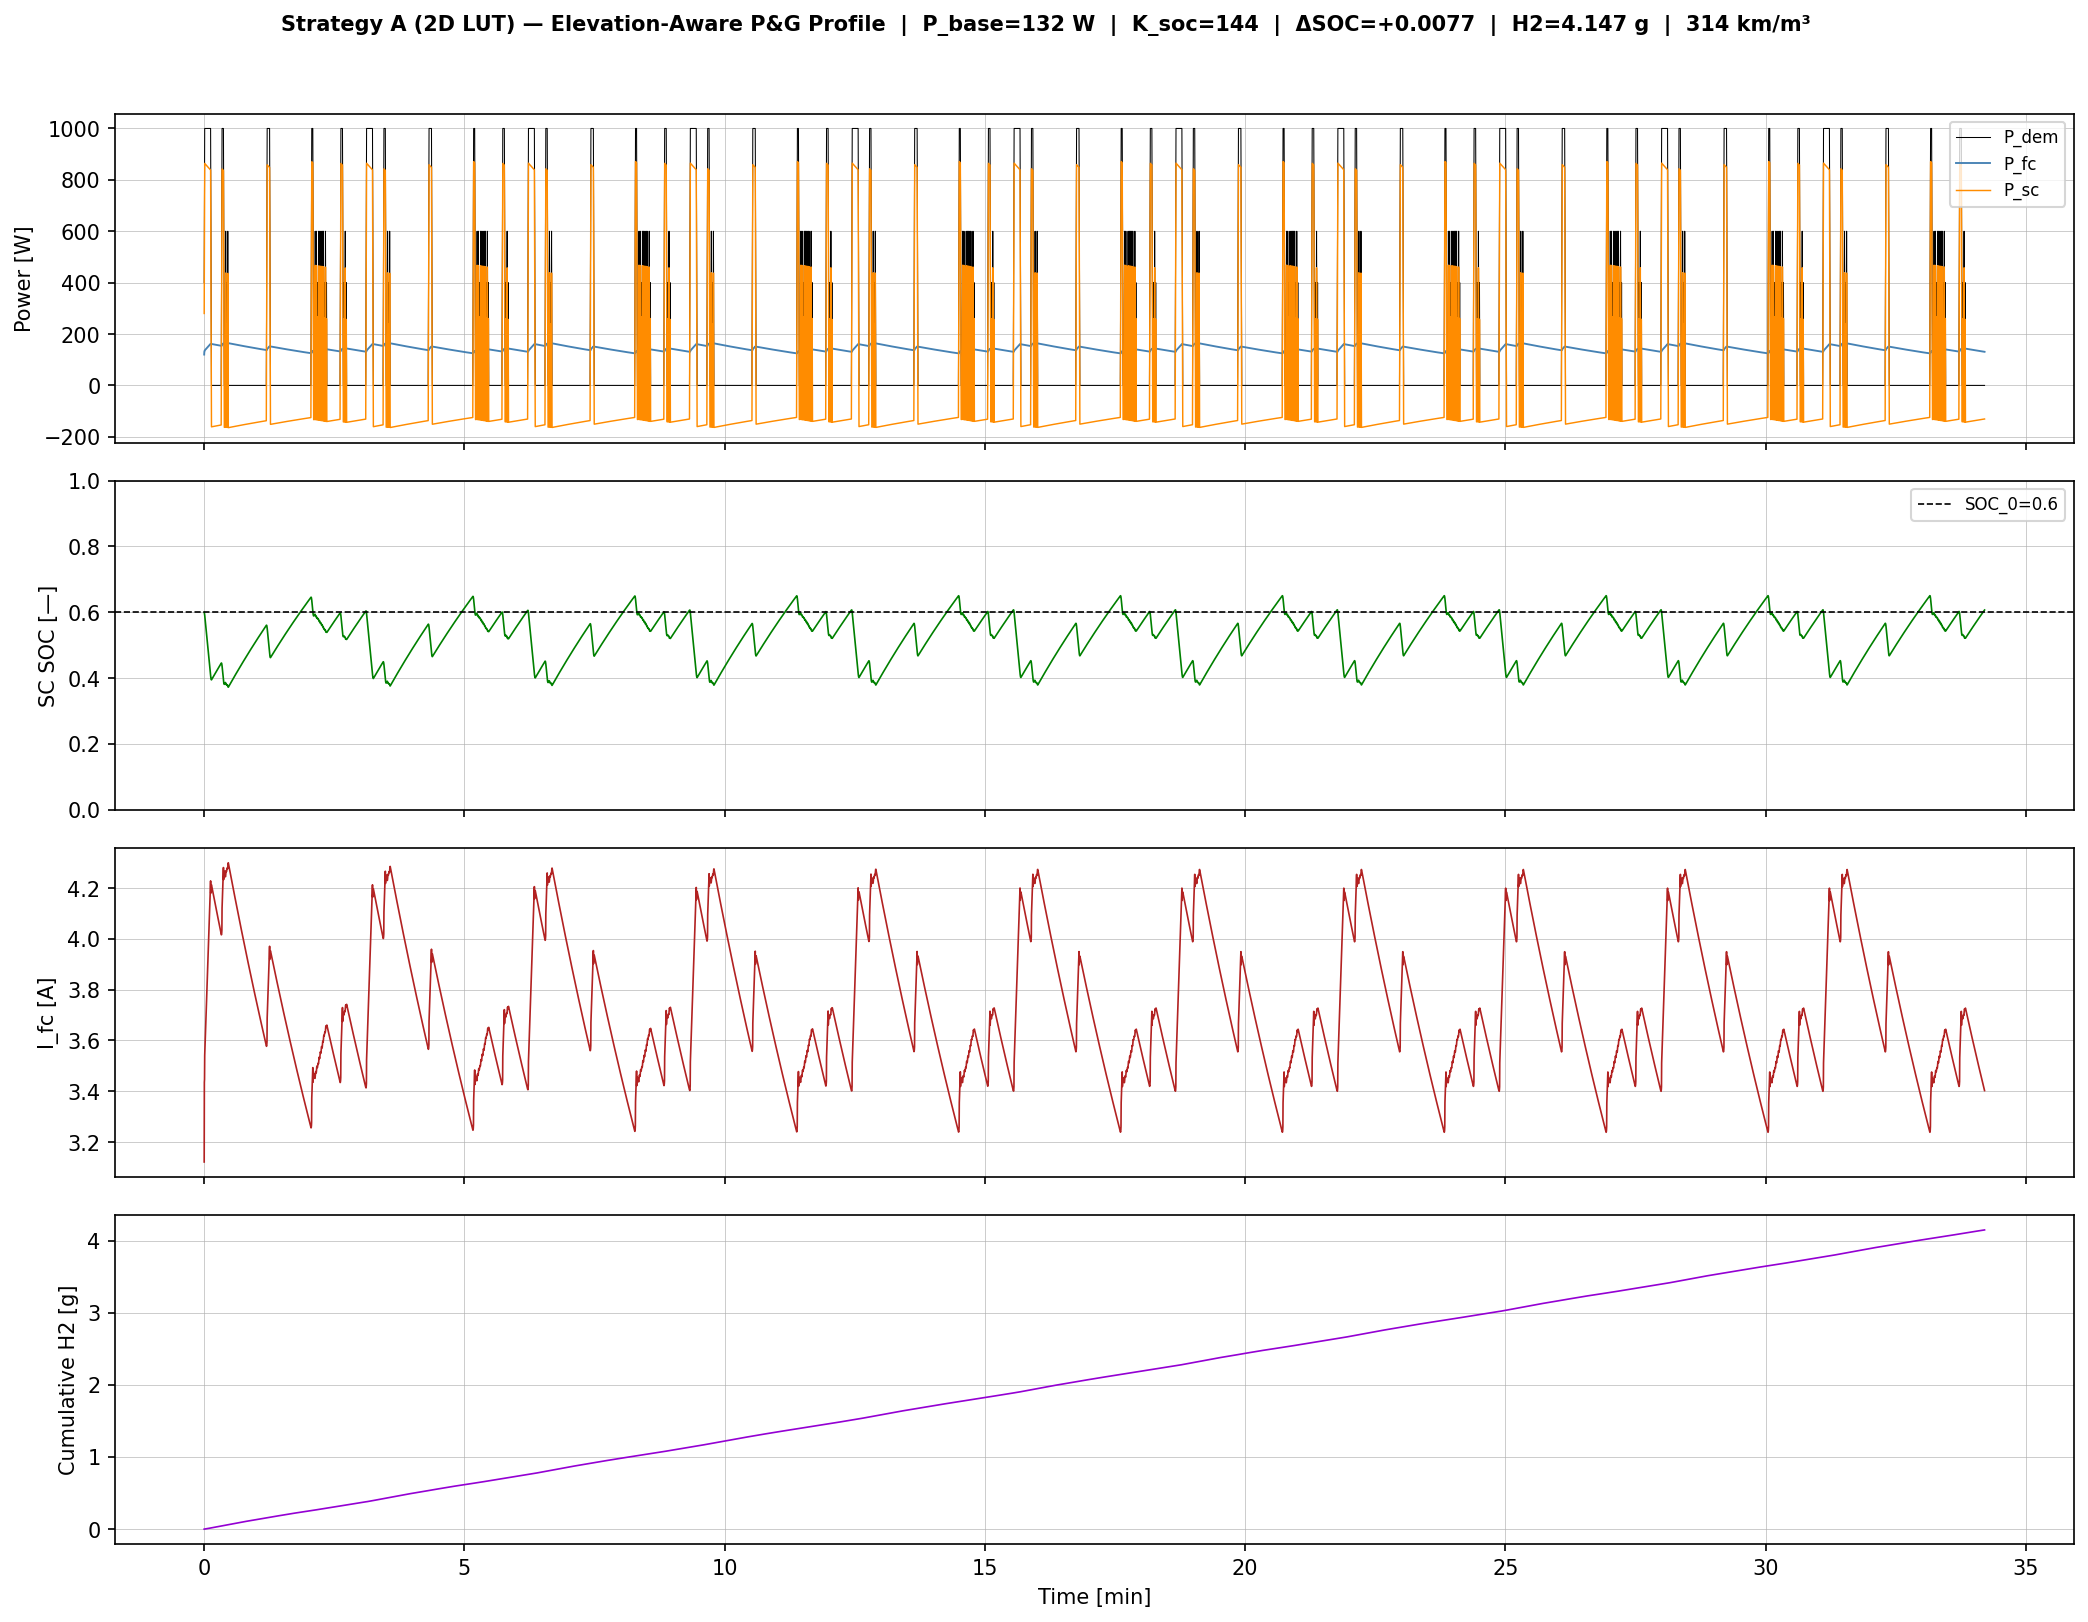
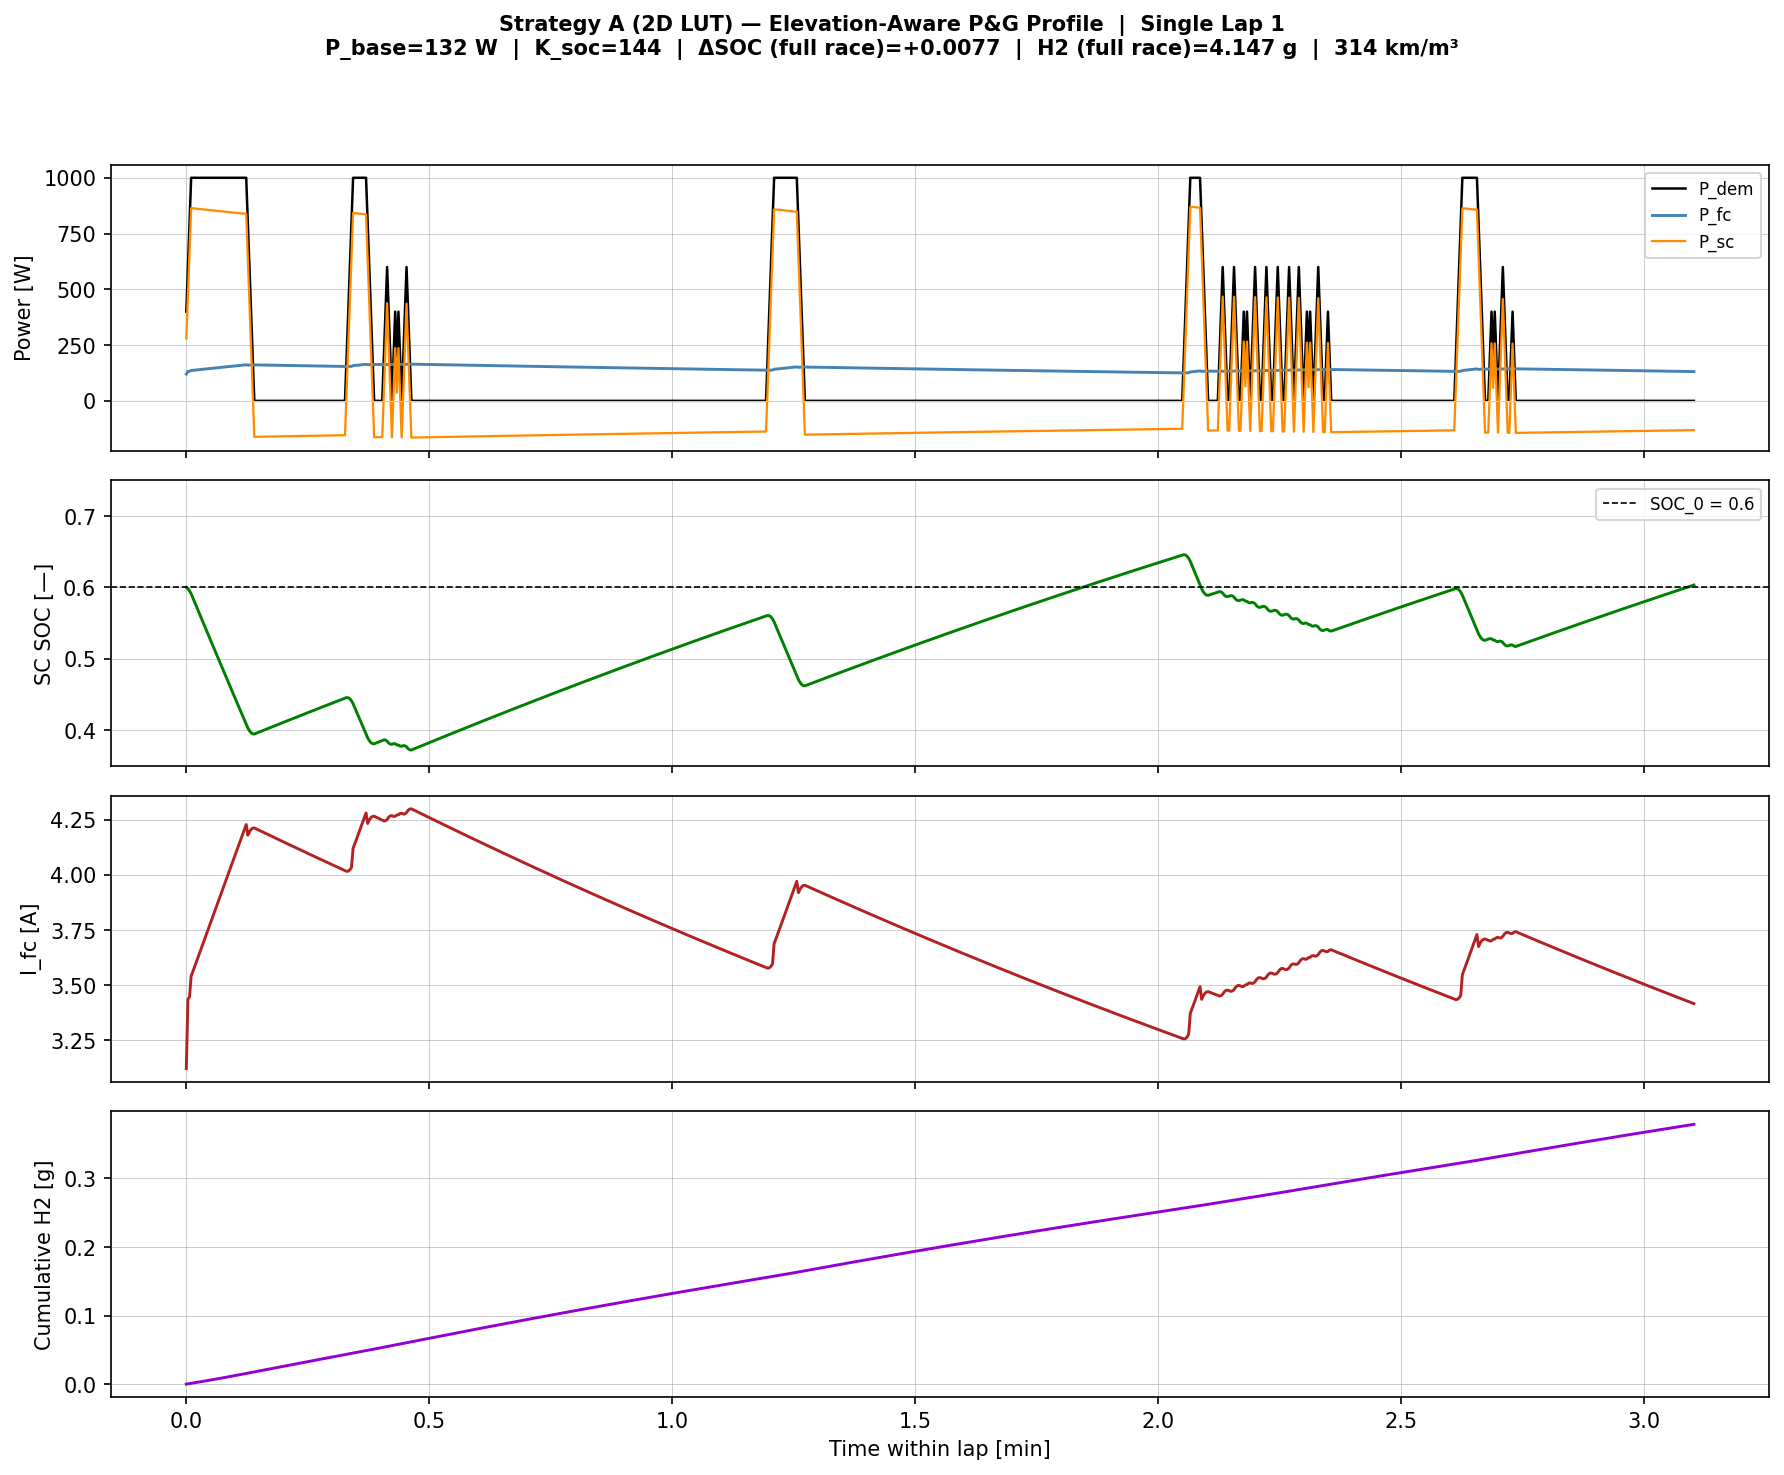
Zoom Strategy A plot to single lap for clarity
Replaced 11-lap time-series with lap-1-only view so pulse/glide
power, SOC swing, FC current, and H2 accumulation are all readable.
Full-race metrics still shown in the title.

https://claude.ai/code/session_01FtkemtJr7FgRXKyhfbWrwm

diff --git a/fcs-strategy/ems/strategy_a_elev_compare.py b/fcs-strategy/ems/strategy_a_elev_compare.py
@@ -189,43 +189,49 @@ print(f"  Mean P_fc      : {float(np.mean(best['P_fc'])):.1f} W")
 print(f"  Race duration  : {RACE_DUR_S/60:.1f} min")
 print(f"──────────────────────────────────────────────────────────────────")
 
-# ── Plot ───────────────────────────────────────────────────────────────────────
-fig, axes = plt.subplots(4, 1, figsize=(14, 11), sharex=True)
+# ── Plot — single lap 1 ────────────────────────────────────────────────────────
+lap1 = lap_num_all == 1
+t_l  = best['t'][lap1] - best['t'][lap1][0]   # zero-based [s]
+t_l_min = t_l / 60.0
+
+fig, axes = plt.subplots(4, 1, figsize=(12, 10), sharex=True)
 fig.suptitle(
-    f"Strategy A (2D LUT) — Elevation-Aware P&G Profile  |  "
+    f"Strategy A (2D LUT) — Elevation-Aware P&G Profile  |  Single Lap 1\n"
     f"P_base={MEAN_P_DEM:.0f} W  |  K_soc={K_soc:.0f}  |  "
-    f"ΔSOC={delta_soc:+.4f}  |  H2={m_H2:.3f} g  |  {km_m3:.0f} km/m³",
+    f"ΔSOC (full race)={delta_soc:+.4f}  |  H2 (full race)={m_H2:.3f} g  |  {km_m3:.0f} km/m³",
     fontsize=10, fontweight='bold',
 )
 
 ax0 = axes[0]
-ax0.plot(t_min, best['P_dem'], color='black',      lw=0.5, label='P_dem')
-ax0.plot(t_min, best['P_fc'],  color='steelblue',  lw=0.9, label='P_fc')
-ax0.plot(t_min, best['P_sc'],  color='darkorange', lw=0.7, label='P_sc')
+ax0.plot(t_l_min, best['P_dem'][lap1], color='black',      lw=1.2, label='P_dem')
+ax0.plot(t_l_min, best['P_fc'][lap1],  color='steelblue',  lw=1.4, label='P_fc')
+ax0.plot(t_l_min, best['P_sc'][lap1],  color='darkorange', lw=1.1, label='P_sc')
+ax0.axhline(0, color='#cccccc', lw=0.5)
 ax0.set_ylabel('Power [W]')
 ax0.legend(loc='upper right', fontsize=8)
 ax0.grid(True, lw=0.3)
 
 ax1 = axes[1]
-ax1.plot(t_min, best['SOC'], color='green', lw=0.8)
-ax1.axhline(SC_SOC_0, color='black', lw=0.8, ls='--', label=f'SOC_0={SC_SOC_0}')
+ax1.plot(t_l_min, best['SOC'][lap1], color='green', lw=1.4)
+ax1.axhline(SC_SOC_0, color='black', lw=0.8, ls='--', label=f'SOC_0 = {SC_SOC_0}')
 ax1.set_ylabel('SC SOC [—]')
-ax1.set_ylim(0.0, 1.0)
+ax1.set_ylim(0.35, 0.75)
 ax1.legend(loc='upper right', fontsize=8)
 ax1.grid(True, lw=0.3)
 
 ax2 = axes[2]
-ax2.plot(t_min, best['I_fc'], color='firebrick', lw=0.8)
+ax2.plot(t_l_min, best['I_fc'][lap1], color='firebrick', lw=1.4)
 ax2.set_ylabel('I_fc [A]')
 ax2.grid(True, lw=0.3)
 
 ax3 = axes[3]
-ax3.plot(t_min, cum_H2, color='darkviolet', lw=0.8)
+cum_H2_lap1 = np.cumsum(K_H2 * best['I_fc'][lap1] * DT)
+ax3.plot(t_l_min, cum_H2_lap1, color='darkviolet', lw=1.4)
 ax3.set_ylabel('Cumulative H2 [g]')
-ax3.set_xlabel('Time [min]')
+ax3.set_xlabel('Time within lap [min]')
 ax3.grid(True, lw=0.3)
 
-fig.tight_layout(rect=[0, 0, 1, 0.96])
+fig.tight_layout(rect=[0, 0, 1, 0.94])
 out = os.path.join(RESULTS_DIR, 'strategy_a_elev_comparison.png')
 fig.savefig(out, dpi=150, bbox_inches='tight')
 plt.close(fig)
